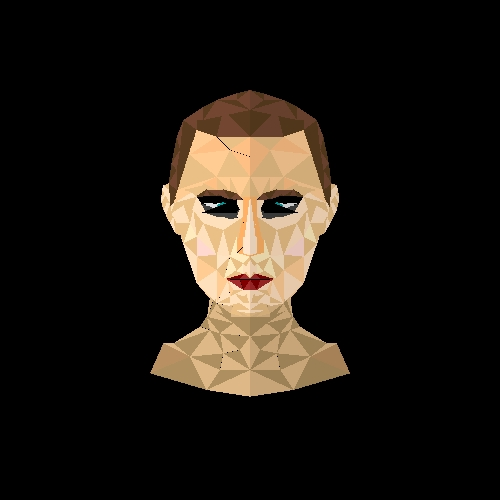
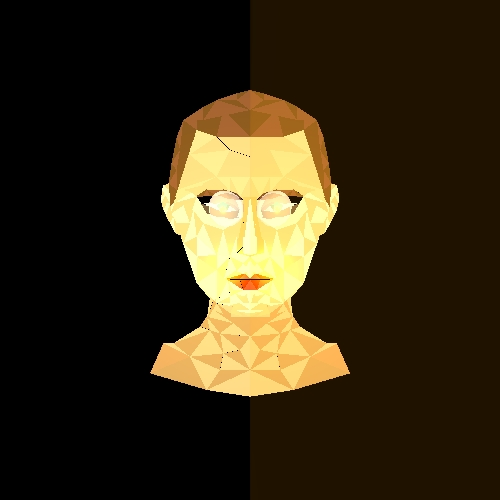
Face

diff --git a/src/unittests/ReflectionRefractionTests.java b/src/unittests/ReflectionRefractionTests.java
@@ -3,6 +3,7 @@
  */
 package unittests;
 
+import geometries.Plane;
 import org.junit.Test;
 
 import elements.*;
@@ -31,18 +32,12 @@ public class ReflectionRefractionTests {
         scene.setDistance(1000);
         scene.setBackground(Color.BLACK);
         scene.setAmbientLight(new AmbientLight(Color.BLACK, 0));
-
         scene.addGeometries(
-                new Sphere(new Color(java.awt.Color.BLUE), new Material(0.4, 0.3, 100, 0.3, 0), 50,
-                        new Point3D(0, 0, 50)),
+                new Sphere(new Color(java.awt.Color.BLUE), new Material(0.4, 0.3, 100, 0.3, 0), 50, new Point3D(0, 0, 50)),
                 new Sphere(new Color(java.awt.Color.RED), new Material(0.5, 0.5, 100), 25, new Point3D(0, 0, 50)));
-
-        scene.addLights(new SpotLight(new Color(1000, 600, 0), new Point3D(-100, 100, -500), new Vector(-1, 1, 2), 1,
-                0.0004, 0.0000006));
-
+        scene.addLights(new SpotLight(new Color(1000, 600, 0), new Point3D(-100, 100, -500), new Vector(-1, 1, 2), 1, 0.0004, 0.0000006));
         ImageWriter imageWriter = new ImageWriter("twoSpheres", 150, 150, 500, 500);
         Render render = new Render(imageWriter, scene);
-
         render.renderImage();
         render.writeToImage();
     }
@@ -57,21 +52,14 @@ public class ReflectionRefractionTests {
         scene.setDistance(10000);
         scene.setBackground(Color.BLACK);
         scene.setAmbientLight(new AmbientLight(new Color(255, 255, 255), 0.1));
-
         scene.addGeometries(
                 new Sphere(new Color(0, 0, 100), new Material(0.25, 0.25, 20, 0.5, 0), 400, new Point3D(-950, 900, 1000)),
                 new Sphere(new Color(100, 20, 20), new Material(0.25, 0.25, 20), 200, new Point3D(-950, 900, 1000)),
-                new Triangle(new Color(20, 20, 20), new Material(0, 0, 0, 0, 1), new Point3D(1500, 1500, 1500),
-                        new Point3D(-1500, -1500, 1500), new Point3D(670, -670, -3000)),
-                new Triangle(new Color(20, 20, 20), new Material(0, 0, 0, 0, 0.5), new Point3D(1500, 1500, 1500),
-                        new Point3D(-1500, -1500, 1500), new Point3D(-1500, 1500, 2000)));
-
-        scene.addLights(new SpotLight(new Color(1020, 400, 400),  new Point3D(-750, 750, 150),
-                new Vector(-1, 1, 4), 1, 0.00001, 0.000005));
-
+                new Triangle(new Color(20, 20, 20), new Material(0, 0, 0, 0, 1), new Point3D(1500, 1500, 1500), new Point3D(-1500, -1500, 1500), new Point3D(670, -670, -3000)),
+                new Triangle(new Color(20, 20, 20), new Material(0, 0, 0, 0, 0.5), new Point3D(1500, 1500, 1500), new Point3D(-1500, -1500, 1500), new Point3D(-1500, 1500, 2000)));
+        scene.addLights(new SpotLight(new Color(1020, 400, 400), new Point3D(-750, 750, 150), new Vector(-1, 1, 4), 1, 0.00001, 0.000005));
         ImageWriter imageWriter = new ImageWriter("twoSpheresMirrored", 2500, 2500, 500, 500);
         Render render = new Render(imageWriter, scene);
-
         render.renderImage();
         render.writeToImage();
     }
@@ -89,19 +77,32 @@ public class ReflectionRefractionTests {
         scene.setAmbientLight(new AmbientLight(new Color(java.awt.Color.WHITE), 0.15));
 
         scene.addGeometries( //
-                new Triangle(Color.BLACK, new Material(0.5, 0.5, 60), //
-                        new Point3D(-150, 150, 115), new Point3D(150, 150, 135), new Point3D(75, -75, 150)), //
-                new Triangle(Color.BLACK, new Material(0.5, 0.5, 60), //
-                        new Point3D(-150, 150, 115), new Point3D(-70, -70, 140), new Point3D(75, -75, 150)), //
-                new Sphere(new Color(java.awt.Color.BLUE), new Material(0.2, 0.2, 30, 0.6, 0), // )
-                        30, new Point3D(60, -50, 50)));
-
-        scene.addLights(new SpotLight(new Color(700, 400, 400), //
-                new Point3D(60, -50, 0), new Vector(0, 0, 1), 1, 4E-5, 2E-7));
-
+                new Triangle(Color.BLACK, new Material(0.5, 0.5, 60), new Point3D(-150, 150, 115), new Point3D(150, 150, 135), new Point3D(75, -75, 150)), //
+                new Triangle(Color.BLACK, new Material(0.5, 0.5, 60), new Point3D(-150, 150, 115), new Point3D(-70, -70, 140), new Point3D(75, -75, 150)), //
+                new Sphere(new Color(java.awt.Color.BLUE), new Material(0.2, 0.2, 30, 0.6, 0), 30, new Point3D(60, -50, 50)));
+        scene.addLights(new SpotLight(new Color(700, 400, 400), new Point3D(60, -50, 0), new Vector(0, 0, 1), 1, 4E-5, 2E-7));
         ImageWriter imageWriter = new ImageWriter("shadow with transparency", 200, 200, 600, 600);
         Render render = new Render(imageWriter, scene);
+        render.renderImage();
+        render.writeToImage();
+    }
 
+    @Test
+    public void trianglesTransparentSphere1() {
+        Scene scene = new Scene("Test scene");
+        scene.setCamera(new Camera(new Point3D(0, 0, -10000), new Vector(0, 0, 1), new Vector(0, -1, 0)));
+        scene.setDistance(10000);
+        scene.setBackground(Color.BLACK);
+        scene.setAmbientLight(new AmbientLight(new Color(255, 255, 255), 0.1));
+        scene.addGeometries(new Plane(new Color(Color.BLACK), new Material(0.2, 0.8, 10, 0.1, 0.9), new Vector(1, 0, 0), new Point3D(0.2, 0, 150)),
+                new Plane(new Color(Color.BLACK), new Material(0.2, 0.8, 10, 0.3, 0.9), new Vector(0, 1, 0), new Point3D(0.2, 0, 150)),
+                new Sphere(new Color(0, 0, 100), new Material(0.25, 0.25, 20, 0.5, 0), 400, new Point3D(-950, 900, 1000)),
+                new Sphere(new Color(100, 20, 20), new Material(0.25, 0.25, 20), 200, new Point3D(-950, 900, 1000)),
+                new Triangle(new Color(20, 20, 20), new Material(0, 0, 0, 0, 1), new Point3D(1500, 1500, 1500), new Point3D(-1500, -1500, 1500), new Point3D(670, -670, -3000)),
+                new Triangle(new Color(20, 20, 20), new Material(0, 0, 0, 0, 0.5), new Point3D(1500, 1500, 1500), new Point3D(-1500, -1500, 1500), new Point3D(-1500, 1500, 2000)));
+        scene.addLights(new SpotLight(new Color(1020, 400, 400), new Point3D(-750, 750, 150), new Vector(-1, 1, 4), 1, 0.00001, 0.000005));
+        ImageWriter imageWriter = new ImageWriter("twoSpheresMirrored2", 2500, 2500, 500, 500);
+        Render render = new Render(imageWriter, scene);
         render.renderImage();
         render.writeToImage();
     }

diff --git a/src/renderer/ImageWriter.java b/src/renderer/ImageWriter.java
@@ -4,17 +4,16 @@ import java.awt.Color;
 import java.awt.image.BufferedImage;
 import java.io.File;
 import java.io.IOException;
+import java.util.logging.Level;
+import java.util.logging.Logger;
 
 import javax.imageio.*;
-import javax.imageio.stream.*;
-
-import geometries.Intersectable.GeoPoint;
 
 /**
- * Image writer class combines accumulation of pixel color matrix and
- * finally producing a non-optimized jpeg image from this matrix.
- * The class although is responsible of holding image related parameters
- * of View Plane - pixel matrix size and resolution
+ * Image writer class combines accumulation of pixel color matrix and finally
+ * producing a non-optimized jpeg image from this matrix. The class although is
+ * responsible of holding image related parameters of View Plane - pixel matrix
+ * size and resolution
  *
  * @author Dan
  */
@@ -22,11 +21,12 @@ public class ImageWriter {
     private double _imageWidth, _imageHeight;
     private int _nX, _nY;
 
-    private final String PROJECT_PATH = System.getProperty("user.dir");
+    private static final String FOLDER_PATH = System.getProperty("user.dir") + "/images";
 
     private BufferedImage _image;
-
     private String _imageName;
+
+    private Logger _logger = Logger.getLogger("ImageWriter");
 
     // ***************** Constructors ********************** //
     /**
@@ -88,34 +88,27 @@ public class ImageWriter {
     // ***************** Operations ******************** //
 
     /**
-     * Function writeToImage produces unoptimized jpeg file of
-     * the image according to pixel color matrix in the directory
-     * of the project.
+     * Function writeToImage produces unoptimized png file of the image according to
+     * pixel color matrix in the directory of the project
      */
-    public void writeToImage(){
-        File ouFile = new File(PROJECT_PATH + "/images/" + _imageName + ".jpg");
+    public void writeToImage() {
         try {
-            javax.imageio.ImageWriter jpgWriter = ImageIO.getImageWritersByFormatName("jpg").next();
-            ImageWriteParam jpgWriteParam = jpgWriter.getDefaultWriteParam();
-            jpgWriteParam.setCompressionMode(ImageWriteParam.MODE_EXPLICIT);
-            jpgWriteParam.setCompressionQuality(1f);
-            jpgWriter.setOutput(new FileImageOutputStream(ouFile));
-            jpgWriter.write(null,new IIOImage(_image, null, null), jpgWriteParam);
-            //ImageIO.write(_image, "jpg", ouFile);
+            File file = new File(FOLDER_PATH + '/' + _imageName + ".png");
+            ImageIO.write(_image, "png", file);
         } catch (IOException e) {
-            e.printStackTrace();
+            _logger.log(Level.SEVERE, "I/O error", e);
         }
     }
 
     /**
-     * The function writePixel writes a color of a specific pixel
-     * into pixel color matrix
+     * The function writePixel writes a color of a specific pixel into pixel color
+     * matrix
      *
      * @param xIndex X axis index of the pixel
      * @param yIndex Y axis index of the pixel
      * @param color  final color of the pixel
      */
-    public void writePixel(int xIndex, int yIndex, Color color){
+    public void writePixel(int xIndex, int yIndex, Color color) {
         _image.setRGB(xIndex, yIndex, color.getRGB());
     }
 

diff --git a/src/unittests/FaceTestSteve.java b/src/unittests/FaceTestSteve.java
@@ -16,14 +16,14 @@ import renderer.Render;
 import scene.Scene;
 
 /**
- * Testing basic shadows
+ * Testing
  *
  * @author Dan
  */
-public class Face {
+public class FaceTestSteve {
 
     /**
-     * Produce a picture of a sphere and triangle with point light and shade
+     * Produce a face picture of a  triangle
      */
     @Test
     public void SphereTriangleInitial() {
@@ -139,7 +139,9 @@ public class Face {
                 new Triangle(new Color(64, 64, 64), new Material(0.2, 0.8, 40, 0, 0), new Point3D(-16, -60, 150), new Point3D(-20, -48, 150), new Point3D(-22, -58, 150)),
 
                 //Sunglasses
-                new Triangle(new Color(0, 0, 0), new Material(0.2, 0.8, 40, 0, 0), new Point3D(-20, -55, 149.9), new Point3D(-75, -55, 149.9), new Point3D(-20, -76, 149.9)),
+                new Sphere(new Color(44, 44, 44), new Material(0.25, 0.25, 0, 0.35, 0), 30, new Point3D(-43, -60, 149.5)),
+                new Triangle( Color.BLACK, new Material(0.2, 0.8, 40, 0, 0), new Point3D(-75, -65, 149.9), new Point3D(-132, -100, 149.9), new Point3D(-132, -110, 149.9)),
+                new Triangle( Color.BLACK, new Material(0.2, 0.8, 40, 0, 0), new Point3D(-17, -65, 149.9), new Point3D(-17, -70, 149.9), new Point3D(0, -70, 149.9)),
 
                 // Noise
                 new Triangle(new Color(255, 178, 102), new Material(0.2, 0.8, 40, 0, 0), new Point3D(0, -80, 150), new Point3D(-10, -80, 150), new Point3D(-3, -60, 150)),
@@ -268,8 +270,8 @@ public class Face {
                 new Triangle(new Color(255, 224, 189), new Material(0.2, 0.8, 40, 0, 0), new Point3D(-90, -40, 150), new Point3D(-112, -40, 150), new Point3D(-100, -68, 150))
 
         );
-        //scene.addLights(new SpotLight(new Color(400, 240, 0), new Point3D(-100, 100, -200), new Vector(1, -1, 3), 1, 1E-5, 1.5E-7));
-        ImageWriter imageWriter = new ImageWriter("Face image", 500, 500, 500, 500);
+       //scene.addLights(new SpotLight(new Color(400, 240, 0), new Point3D(-100, 100, -200), new Vector(1, -1, 3), 1, 1E-5, 1.5E-7));
+        ImageWriter imageWriter = new ImageWriter("Face image", 500, 500, 2500, 2500);
         Render render = new Render(imageWriter, scene);
         render.renderImage();
         render.writeToImage();

diff --git a/src/elements/SpotLight.java b/src/elements/SpotLight.java
@@ -11,7 +11,17 @@ public class SpotLight extends PointLight {
     private Vector _direction;
     private double _sharpsBeam;
 
-
+    /**
+     * Instantiates a new Spot light.
+     *
+     * @param colorIntensity the color intensity
+     * @param position       the position
+     * @param direction      the direction
+     * @param kC             the k c
+     * @param kL             the k l
+     * @param kQ             the k q
+     * @param sharpsBeam     the sharps beam
+     */
     public SpotLight(Color colorIntensity, Point3D position, Vector direction, double kC, double kL, double kQ, double sharpsBeam) {
         super(colorIntensity, position, kC, kL, kQ);
         _direction = new Vector(direction).normalized();
@@ -32,7 +42,6 @@ public class SpotLight extends PointLight {
         this(colorIntensity, position, direction, kC, kL, kQ, 1.0);
     }
 
-
     @Override
     public Color getIntensity(Point3D point3D) {
         double dirL = point3D.subtract(_position).normalized().dotProduct(_direction);
@@ -44,9 +53,4 @@ public class SpotLight extends PointLight {
         }
         return super.getIntensity(point3D).scale(dirL);
     }
-
-    //@Override
-    // public Vector getL(Point3D p) {
-    //  return _direction;
-    //}
 }

diff --git a/src/primitives/Ray.java b/src/primitives/Ray.java
@@ -15,6 +15,7 @@ public class Ray {
         _point = new Point3D(poo.add(delta));
         _direction = direction.normalized();
     }
+
     /**
      * Instantiates a new Ray.
      *

diff --git a/src/primitives/Material.java b/src/primitives/Material.java
@@ -10,7 +10,6 @@ public class Material {
     private double _kR;
     private int _nShininess;
 
-
     /**
      * Instantiates a new Material.
      *

diff --git a/src/primitives/Point3D.java b/src/primitives/Point3D.java
@@ -6,7 +6,6 @@ import static primitives.Util.*;
 
 import static java.lang.Math.sqrt;
 
-
 /**
  * The type Point 3 d.
  */
